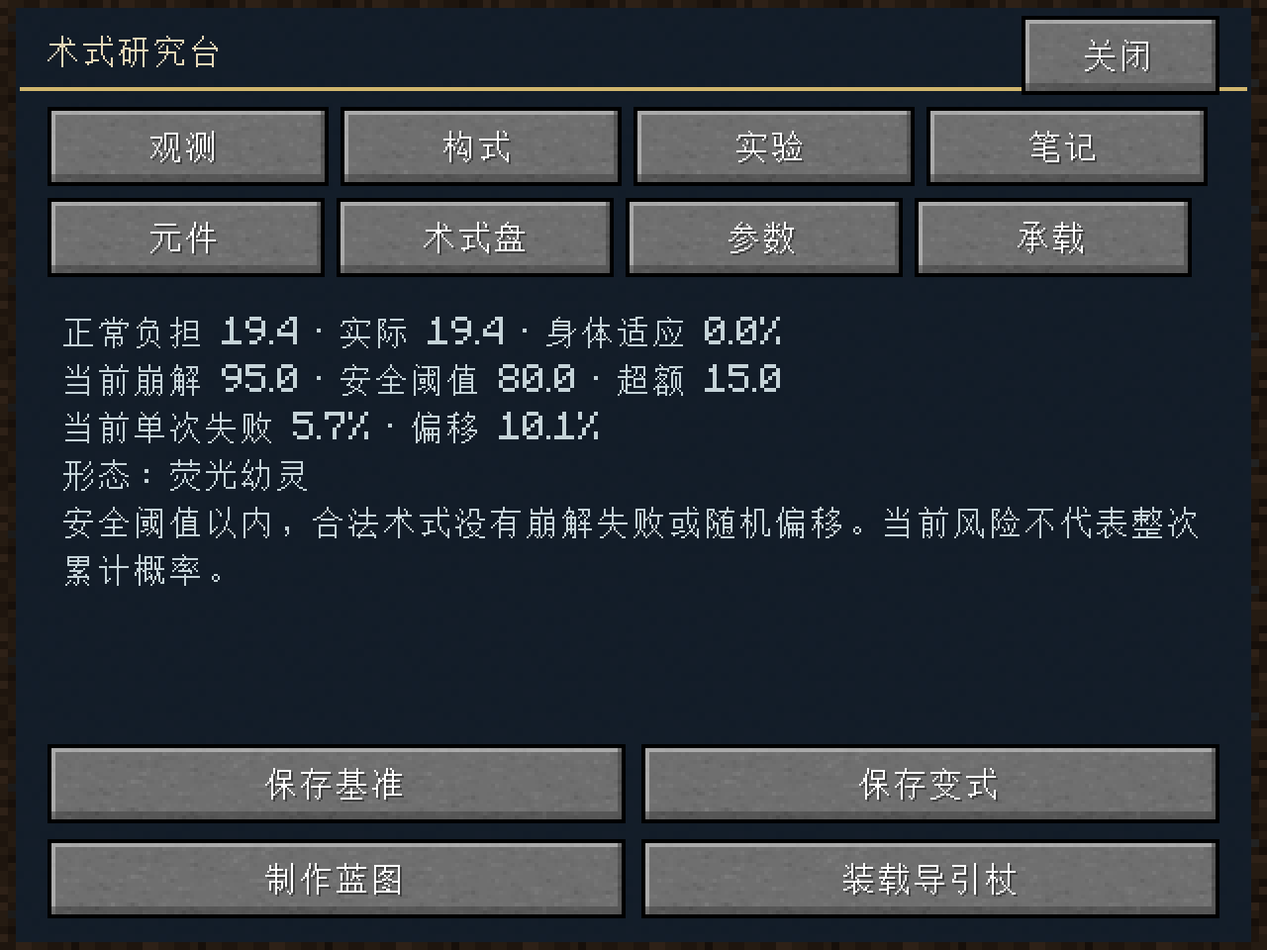
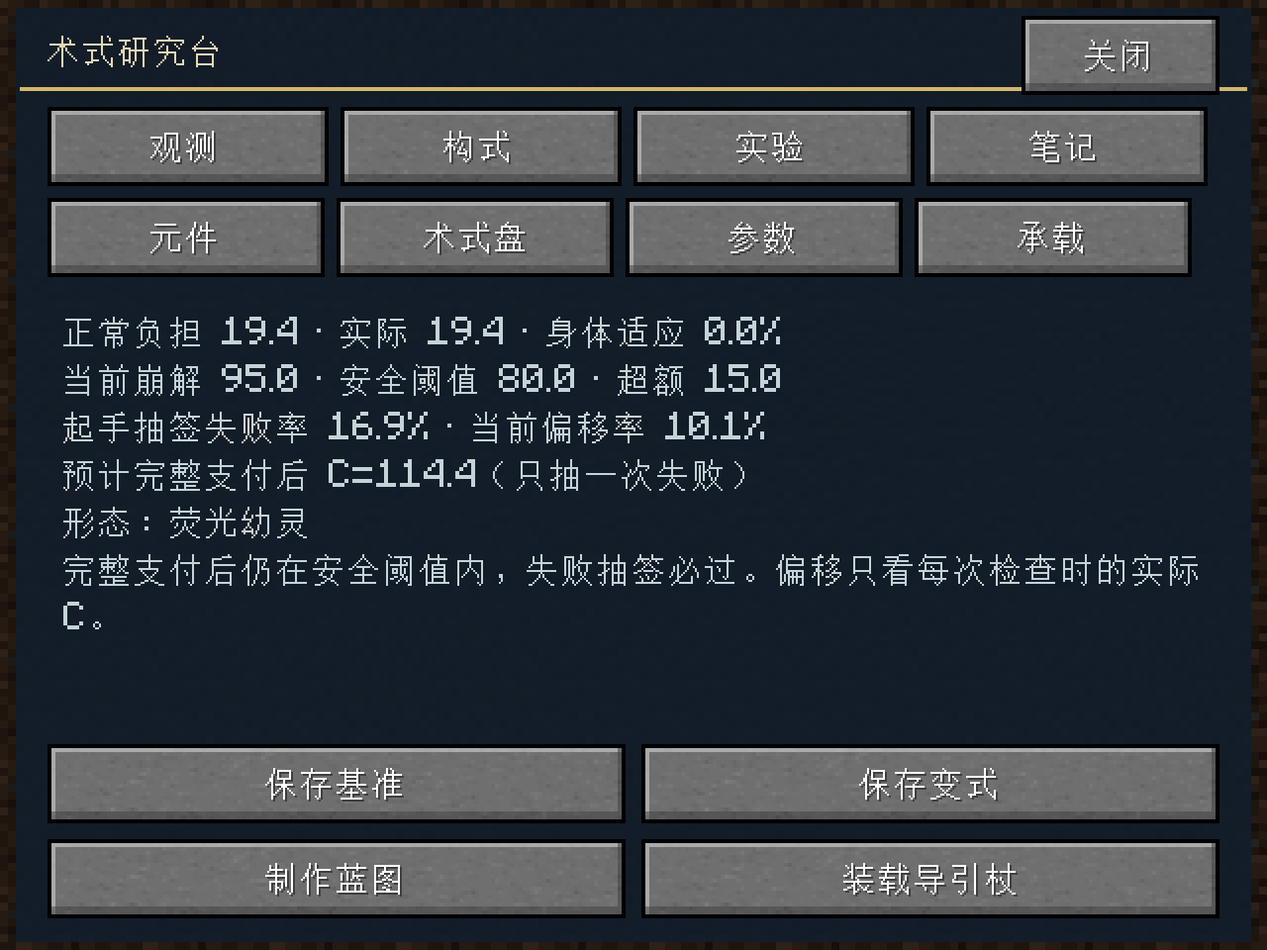
调整施法失败为起手按预计完整负荷单次抽签，抽中后在不可打断界限前随机中断，保留实时偏移、渐进支付与完整冷却，更新HUD、实验记录和设计原型，补充概率分布及实际世界回归，更新neomagic.4测试包

Changed region(s): [[0.0312, 0.4375, 0.9375, 0.625]]

diff --git a/new-spell-system/ui/prototype.js b/new-spell-system/ui/prototype.js
@@ -83,8 +83,8 @@
     $('safety-line').style.left = `${profile.safety / (profile.safety + 150) * 100}%`;
     $('risk-stage').textContent = now.excess === 0 ? '安全范围内' : `超出安全线 ${fmt(now.excess)} 点`;
     $('risk-stage').style.color = now.excess > 0 ? 'var(--red)' : 'var(--cyan)';
-    $('risk-now').textContent = `本次检测 ${pct(now.failure)}`;
-    $('projected').textContent = `完整支付后预计 ${fmt(state.burden + q.actual)}。条件不再变化时，整次预估 ${pct(plan.cumulative)}。`;
+    $('risk-now').textContent = `起手失败抽签 ${pct(plan.cumulative)}`;
+    $('projected').textContent = `完整支付后预计 ${fmt(state.burden + q.actual)}。失败只抽一次，整次概率 ${pct(plan.cumulative)}。`;
     $('load-baseline').disabled = !baseline;
     diagram();
   }
@@ -111,7 +111,7 @@
     if (comparisonBase.carrier !== s.carrier) differences.push('载形');
     const detail = scheme => `${safe(M.forms[scheme.form].name)} · 起始负担 ${fmt(scheme.burden)}<br>${fmt(scheme.intensity, 2)} U · ${fmt(scheme.prep / 20)} 秒 · ${scheme.range} 格`;
     $('comparison').innerHTML = `<div class="comparison-grid"><div><small>基准方案</small><h3>${safe(M.structures[comparisonBase.structure].name)}</h3><p>${detail(comparisonBase)}<br>实际报价 ${fmt(qb.actual)} · 作用预算 ${fmt(qb.budget)}</p></div><div><small>选中的演算记录</small><h3>${safe(M.structures[s.structure].name)} · ${record.status === 'failed' ? '释放失败' : '演算完成'}</h3><p>${detail(s)}<br>已支付 ${fmt(record.paid)} · 演算输出预算 ${fmt(record.outputBudget)}<br>累计偏移 ${fmt(Math.hypot(record.yaw, record.pitch), 2)}°</p></div></div><div class="condition-note ${differences.length ? 'warning' : ''}">${!baseline ? '尚未保存基准；当前仅展示这份记录。' : differences.length ? `比较条件有差异：${differences.join('、')}。先保留疑问，不能只把结果归因于组织方式。` : '形态、起始负担和主要参数一致，可用于比较组织方式；一次抽卡结果仍不构成确定结论。'}</div>`;
-    $('timeline').innerHTML = `<table class="timeline"><thead><tr><th>时点</th><th>已支付</th><th>累计／超额</th><th>本次失败率</th><th>本次偏移率</th><th>观察</th></tr></thead><tbody>${record.checkpoints.map(point => `<tr class="${point.failed ? 'failed' : point.shifted ? 'shifted' : ''}"><td>${fmt(point.tick / 20)} 秒</td><td>${fmt(point.paid)}</td><td>${fmt(point.burden)} / +${fmt(point.excess)}</td><td>${pct(point.failure)}</td><td>${pct(point.offset)}</td><td>${point.failed ? '中断 · 完整CD' : point.shifted ? `偏移累计 ${fmt(Math.hypot(point.yaw, point.pitch), 2)}°` : point.excess === 0 ? '安全通过' : '本次通过'}</td></tr>`).join('')}</tbody></table>`;
+    $('timeline').innerHTML = `<table class="timeline"><thead><tr><th>时点</th><th>已支付</th><th>累计／超额</th><th>起手抽签率</th><th>本次偏移率</th><th>观察</th></tr></thead><tbody>${record.checkpoints.map(point => `<tr class="${point.failed ? 'failed' : point.shifted ? 'shifted' : ''}"><td>${fmt(point.tick / 20)} 秒</td><td>${fmt(point.paid)}</td><td>${fmt(point.burden)} / +${fmt(point.excess)}</td><td>${pct(point.failure)}</td><td>${pct(point.offset)}</td><td>${point.failed ? '中断 · 完整CD' : point.shifted ? `偏移累计 ${fmt(Math.hypot(point.yaw, point.pitch), 2)}°` : point.excess === 0 ? '安全通过' : '本次通过'}</td></tr>`).join('')}</tbody></table>`;
   }
   function renderNotes() {
     const last = records[0];

diff --git a/new-spell-system/ui/model.js b/new-spell-system/ui/model.js
@@ -74,11 +74,12 @@
   }
   function plan(input) {
     const s = normalise(input), q = quote(s), checkpoints = [];
+    const failure = risk(s, s.burden + q.actual).failure;
     for (let t = 0; t <= s.prep; t += 10) {
       const paid = q.actual * (s.prep === 0 ? 1 : t / s.prep);
-      checkpoints.push({ tick: t, paid, burden: s.burden + paid, ...risk(s, s.burden + paid) });
+      checkpoints.push({ tick: t, paid, burden: s.burden + paid, ...risk(s, s.burden + paid), failure });
     }
-    return { checkpoints, cumulative: 1 - checkpoints.reduce((value, p) => value * (1 - p.failure), 1) };
+    return { checkpoints, cumulative: failure, failureBasis: s.burden + q.actual, failureDraws: 1 };
   }
   function rng(seed) {
     let n = seed >>> 0;
@@ -88,20 +89,22 @@
     const s = normalise(input), errors = validate(s);
     if (errors.length) return { invalid: true, errors };
     const q = quote(s), next = rng(seed), checkpoints = [];
+    const probability = risk(s, s.burden + q.actual).failure;
+    const failureAt = next() < probability ? Math.floor(next() * Math.max(1, s.prep)) : -1;
     let paid = 0, yaw = 0, pitch = 0, failed = false, endTick = s.prep;
     for (let tick = 0; tick <= s.prep; tick++) {
       const billed = tick === s.prep ? tick : Math.floor(tick / 2) * 2;
       paid = q.actual * (s.prep === 0 ? 1 : billed / s.prep);
-      if (tick % 10 !== 0) continue;
+      failed = tick === failureAt;
+      if (tick % 10 !== 0 && !failed) continue;
       const r = risk(s, s.burden + paid);
-      failed = r.failure > 0 && next() < r.failure;
-      const shifted = !failed && r.offset > 0 && next() < r.offset;
+      const shifted = !failed && tick % 10 === 0 && r.offset > 0 && next() < r.offset;
       if (shifted) { yaw += (next() * 2 - 1) * r.angle; pitch += (next() * 2 - 1) * r.angle; }
-      checkpoints.push({ tick, paid, burden: s.burden + paid, ...r, failed, shifted, yaw, pitch });
+      checkpoints.push({ tick, paid, burden: s.burden + paid, ...r, failure: probability, failed, shifted, yaw, pitch });
       if (failed) { endTick = tick; break; }
     }
     return { id: String(Date.now()) + '-' + seed, seed, scheme: s, quote: q, checkpoints,
-      status: failed ? 'failed' : 'complete', paid, endBurden: s.burden + paid, endTick,
+      status: failed ? 'failed' : 'complete', paid, endBurden: s.burden + paid, endTick, failureDraws: 1, failureProbability: probability, failureBasis: s.burden + q.actual,
       yaw, pitch, outputBudget: failed ? 0 : q.budget, created: new Date().toLocaleTimeString('zh-CN', { hour12: false }) };
   }
   const api = { cores, carriers, structures, forms, normalise, validate, quote, risk, plan, simulate };

diff --git a/new-spell-system/ui/研究界面原型.html b/new-spell-system/ui/研究界面原型.html
@@ -60,7 +60,7 @@
               <div class="body-values"><span>当前累计 <b id="burden-value">70.0</b></span><span>安全阈值 <b id="safety-value">100</b></span></div>
               <div class="burden-bar"><div id="burden-fill"></div><i id="safety-line"></i></div>
               <input type="range" id="burden" min="0" max="300" step="1" value="70" aria-label="调整演示初始负担">
-              <div class="risk-line"><span id="risk-stage">安全范围内</span><b id="risk-now">本次检测 0%</b></div><p class="muted" id="projected"></p>
+              <div class="risk-line"><span id="risk-stage">安全范围内</span><b id="risk-now">起手失败抽签 0%</b></div><p class="muted" id="projected"></p>
               <button id="recover" class="reset-button">调整演示条件：负担归零</button>
             </div>
           </aside>
@@ -69,7 +69,7 @@
       <section class="page" id="page-experiment" hidden>
         <div class="section-title"><div><small>EXPERIMENT</small><h2>对照条件，再解释结果</h2></div><button class="subtle-button" data-go="craft">← 返回构式</button></div>
         <div class="experiment-layout"><aside class="panel history-panel"><div class="panel-title">演算记录 <span id="record-count">0</span></div><div id="history"></div><p class="muted">这里保存界面原型的规则演算，不是游戏实体测量。</p></aside>
-          <div class="experiment-main"><div id="comparison" class="panel comparison"></div><div class="panel timeline-panel"><div class="panel-title">施法检测时间线 <small>从 0 tick 起，每 10 tick</small></div><div id="timeline"></div></div><div class="sample-caution">观察次数与未来概率分别解释。一次随机结果不能单独证明因果。</div></div></div>
+          <div class="experiment-main"><div id="comparison" class="panel comparison"></div><div class="panel timeline-panel"><div class="panel-title">施法检测时间线 <small>失败只抽一次；偏移从 0 tick 起每 10 tick</small></div><div id="timeline"></div></div><div class="sample-caution">观察次数与未来概率分别解释。一次随机结果不能单独证明因果。</div></div></div>
       </section>
       <section class="page" id="page-notes" hidden>
         <div class="section-title"><div><small>RESEARCH NOTES</small><h2>将观察、假说和结论分开保存</h2></div><span class="tag">笔记不增加身体适应</span></div>

diff --git a/new-spell-system/ui/model-check.js b/new-spell-system/ui/model-check.js
@@ -25,8 +25,11 @@ assert.equal(immediate.status, 'failed');
 assert.equal(immediate.paid, immediate.quote.actual);
 const initialFailure = M.simulate({ ...base, burden: 500 }, 1);
 assert.equal(initialFailure.status, 'failed');
-assert.equal(initialFailure.paid, 0);
-assert.equal(initialFailure.endTick, 0);
+assert.ok(initialFailure.endTick >= 0 && initialFailure.endTick < base.prep);
+assert.ok(Math.abs(initialFailure.paid - initialFailure.quote.actual * (Math.floor(initialFailure.endTick / 2) * 2) / base.prep) < 1e-8);
+assert.equal(initialFailure.failureDraws, 1);
+assert.equal(initialFailure.checkpoints.at(-1).failed, true);
+assert.equal(M.plan(base).cumulative, M.risk(base, base.burden + q.actual).failure);
 const safe = M.simulate({ ...base, burden: 0 }, 1);
 assert.equal(safe.status, 'complete');
 assert.equal(safe.paid, safe.quote.actual);
@@ -45,5 +48,11 @@ for (let seed = 1; seed < 1000; seed++) {
 }
 assert.ok(partialFailure);
 assert.ok(partialFailure.paid > 0 && partialFailure.paid < partialFailure.quote.actual);
+for (let seed = 1; seed <= 4000; seed++) {
+  const attempt = M.simulate({ ...base, burden: 500 }, seed);
+  assert.equal(attempt.failureDraws, 1);
+  assert.ok(attempt.endTick < base.prep);
+  assert.ok(attempt.checkpoints.every(point => point.failed || point.tick % 10 === 0));
+}
 console.log('Design model checks passed: budget conservation, typed structures, live form risks, timeline boundaries, partial payment, adaptation and safe-area guarantees.');
 console.log('This verifies the design calculator only; Minecraft gameplay is not implemented by this prototype.');

diff --git a/new-spell-system/src/test/java/net/ssca/neomagic/NeoModelTest.java b/new-spell-system/src/test/java/net/ssca/neomagic/NeoModelTest.java
@@ -9,6 +9,12 @@ public final class NeoModelTest {
     private static void require(boolean test,String message){checks++;if(!test)throw new AssertionError(message);}
     private static void near(double actual,double expected,String message){require(Math.abs(actual-expected)<1e-8,message+": "+actual+" != "+expected);}
     private static Blueprint b(List<Control> controls,int ticks){return new Blueprint("",Core.THERMAL,Carrier.PROJECTILE,controls,Core.FROST,1,ticks,32);}
+    private static final class Draw extends Random {
+        final double value;final int time;int draws,times;
+        Draw(double value,int time){this.value=value;this.time=time;}
+        @Override public double nextDouble(){draws++;return value;}
+        @Override public int nextInt(int bound){times++;return Math.floorMod(time,bound);}
+    }
     public static void main(String[] args) {
         var safe=new Profile(100000,1,1,1,1,false);var neutral=new Profile(80,1,1,1,1,false);
         for(int prep=0;prep<=80;prep++) {
@@ -23,18 +29,50 @@ public final class NeoModelTest {
         for(int tick=0;tick<=40;tick++)current+=s.advance(tick,current,new Profile(80,.000001,1,1,1,false),new Random(7));
         double[] expected={70,76.25,82.5,88.75,95};
         for(int i=0;i<5;i++)near(s.checkpoints.get(i).burden(),expected[i],"Live burden at checkpoint");
-        require(s.checkpoints.get(2).risk().failure()!=s.checkpoints.get(3).risk().failure(),"Continuous risk inside same descriptive zone");
+        for(var point:s.checkpoints)near(point.risk().failure(),risk(b,95,25,new Profile(80,.000001,1,1,1,false)).failure(),"One locked probability uses initial C plus actual Q");
         Risk low=risk(b,90,25,neutral), high=risk(b,90,45,neutral);
         require(high.failure()>low.failure()&&high.offset()>low.offset()&&high.angle()>low.angle(),"Actual spell cost affects all risks");
         require(risk(b,90,25,new Profile(80,.8,.9,1,1,false)).failure()!=low.failure(),"Same excess different form roll modifier");
         require(risk(b,10000,25,neutral).failure()==1,"Unbounded burden can reach 100% failure");
         Session failure=new Session(b,q);double paid=0;
-        for(int tick=0;tick<=10;tick++)paid+=failure.advance(tick,10000+paid,neutral,new Random(1));
+        for(int tick=0;tick<=10;tick++)paid+=failure.advance(tick,10000+paid,neutral,new Draw(.5,0));
         require(failure.failed&&!failure.complete,"Failure interrupts");near(failure.paid,0,"0-tick non-instant failure does not precharge");
-        Session partial=new Session(b,q);double c=70;
-        for(int tick=0;tick<=20;tick++)c+=partial.advance(tick,c,tick<20?safe:new Profile(1,100,1,1,1,false),new Random(1));
-        require(partial.failed,"Mid-cast failure");near(partial.paid,12.5,"Retains partial payment only");
+        Session partial=new Session(b,q);double c=70;var draw=new Draw(.5,17);
+        for(int tick=0;tick<=20;tick++)c+=partial.advance(tick,c,tick==0?new Profile(1,100,0,1,1,false):safe,draw);
+        require(partial.failed,"Previously drawn failure fires even after safety improves");near(partial.paid,10,"Odd-tick failure retains only the last two-tick payment");
+        require(partial.checkpoints.get(partial.checkpoints.size()-1).tick()==17,"Failure may fire off the ten-tick drift grid");
+        require(draw.draws==1&&draw.times==1&&partial.failureDraws==1,"Failure and its time are sampled exactly once");
+        Session passed=new Session(b,q);var passingDraw=new Draw(.5,0);double passingC=0;
+        for(int tick=0;tick<=40;tick++)passingC+=passed.advance(tick,tick==0?0:10000,new Profile(tick==0?1000:1,100,0,1,1,false),passingDraw);
+        require(passed.complete&&!passed.failed&&passingDraw.draws==1&&passingDraw.times==0,"Later C spikes do not reroll a successful initial draw");
+        Session projected=new Session(b,q);var projectedDraw=new Draw(0,19);
+        projected.advance(0,70,neutral,projectedDraw);require(projected.failureProbability>0&&!projected.failed,"Projected unsafe payment can schedule failure while current C is safe");
+        Session locked=new Session(b,q,700,200);var finalWindow=new Draw(.5,199);double longC=10000;
+        for(int tick=0;tick<=200;tick++)longC+=locked.advance(tick,longC,new Profile(1,100,0,1,1,false),finalWindow,false);
+        require(locked.failed&&locked.checkpoints.get(locked.checkpoints.size()-1).tick()==199,"Failure fires strictly before the lock boundary");
+        require(finalWindow.draws==1&&finalWindow.times==1,"A long preparation still has one failure draw");
         Session instant=new Session(b(List.of(),0),q);near(instant.advance(0,0,safe,new Random(1)),25,"Instant prepays before checking");
+        var instantFail=new Session(b(List.of(),0),q);instantFail.advance(0,10000,neutral,new Draw(.5,19));
+        require(instantFail.failed&&instantFail.paid==25&&instantFail.failureDraws==1,"Instant failure pays and fires at zero");
+        var rng=new Random(20261027);int[] bins=new int[20];
+        for(int run=0;run<4000;run++) {
+            var attempt=new Session(b,q,700,200);double value=10000;
+            for(int tick=0;tick<=700&&!attempt.failed;tick++)value+=attempt.advance(tick,value,new Profile(1,100,0,1,1,false),rng,false);
+            require(attempt.failed,"Guaranteed failure terminates within preparation");
+            int when=attempt.checkpoints.get(attempt.checkpoints.size()-1).tick();
+            require(when>=0&&when<200&&attempt.failureDraws==1,"Sampled failures stay inside the pre-lock window");bins[when/10]++;
+        }
+        require(Arrays.stream(bins).allMatch(n->n>140&&n<260),"Failure times cover the entire window without ten-tick quantization");
+        for(int duration:new int[]{20,80}) {
+            int failures=0;var spell=b(List.of(),duration);var fixed=new Quote(20,20,.5,plan(spell));
+            for(int run=0;run<10000;run++) {
+                var attempt=new Session(spell,fixed);double value=90;
+                for(int tick=0;tick<=duration&&!attempt.failed;tick++)value+=attempt.advance(tick,value,new Profile(100,10.0/3,0,1,1,false),rng);
+                if(attempt.failed)failures++;
+                require(attempt.failureDraws==1,"Failure draw count is independent of preparation length");
+            }
+            require(Math.abs(failures/10000.0-.1)<.015,"Whole-cast chance stays near 10 percent for both short and long preparation");
+        }
         for(var controls:List.of(List.<Control>of(),List.of(Control.SPLIT),List.of(Control.MERGE))) {
             var spell=b(controls,40);Quote novice=quote(spell,0,coefficients(Core.THERMAL)),master=quote(spell,1,coefficients(Core.THERMAL));
             require(master.actual()/novice.actual()>=.35-1e-8&&master.actual()/novice.actual()<=.5+1e-8,"35–50 percent remaining cost");

diff --git a/new-spell-system/src/test/java/net/ssca/neomagic/NeoBookWorldProbe.java b/new-spell-system/src/test/java/net/ssca/neomagic/NeoBookWorldProbe.java
@@ -70,8 +70,12 @@ public final class NeoBookWorldProbe {
                 var wand=new ItemStack(NeoMagic.WAND);wand.getOrCreateNbt().putString("NeoBlueprint",NeoState.JSON.toJson(NeoModel.Blueprint.starter()));p.setStackInHand(Hand.OFF_HAND,wand);
                 NeoRuntime.start(p,Hand.OFF_HAND);check(!NeoRuntime.ACTIVE.containsKey(p.getUuid()),"Book and loaded wand cannot prepare in parallel");
                 var bad=player(t);var badBook=book(bad);SpellbookData.setScroll(badBook,0,ScrollData.create("lunar_mend",1));
+                NeoRuntime.data(bad).burden=10000;
                 SpellCastManager.cast(bad,0,321);var interrupted=NeoLegacyCasting.active(bad);
-                check(interrupted!=null,"Second player starts independently");NeoRuntime.data(bad).burden=10000;
+                var badRecord=NeoRuntime.data(bad).records.get(0);
+                var changing=player(t);var changingBook=book(changing);SpellbookData.setScroll(changingBook,0,ScrollData.create("lunar_mend",1));
+                SpellCastManager.cast(changing,0,322);var changingCast=NeoLegacyCasting.active(changing);
+                check(changingCast!=null&&changingCast.session.failureProbability==0,"Projected safe cast passes its one initial failure draw");NeoRuntime.data(changing).burden=10000;
                 var solo=player(t);solo.setHealth(5);var soloScroll=ScrollData.create("lunar_mend",1);solo.setStackInHand(Hand.MAIN_HAND,soloScroll);
                 int uses=ScrollData.getUses(soloScroll);soloScroll.use(t.getWorld(),solo,Hand.MAIN_HAND);var soloCast=NeoLegacyCasting.active(solo);
                 check(soloCast!=null&&soloCast.session.quote.actual()>0,"Standalone scroll pays collapse");
@@ -86,15 +90,33 @@ public final class NeoBookWorldProbe {
                 check(failure.paid==15&&failure.checks.size()==1&&failure.checks.get(0).tick()==0,"Instant failure pays full at zero exactly once");
                 check(effect[0]==0&&cd[0]==100&&!SpellChannelManager.isCasting(instant),"Guaranteed failure interrupts effect with full cooldown");
                 check(!NeoRuntime.data(instant).progress.containsKey("spell:"+real.getId()),"Failure grants no adaptation");
-                t.waitAndRun(3,()->{check(cast.session.paid>0&&cast.session.paid<cast.session.quote.actual(),"Preparation adds C progressively");check(SpellbookData.getMana(book)==0,"Payment never touches old mana");});
-                t.waitAndRun(14,()->{
-                    check(!SpellChannelManager.isCasting(bad)&&interrupted.session.failed,"Rising LIVE C fails next checkpoint");
-                    check(interrupted.session.checkpoints.stream().map(NeoModel.Checkpoint::tick).toList().equals(List.of(0,10)),"Checks run at 0 and 10 exactly once");
-                    check(interrupted.session.paid>0&&interrupted.session.paid<interrupted.session.quote.actual(),"Failure retains paid part without charging remainder");
-                    long remaining=SharedSpellCooldowns.getCooldownEndOf(bad,SpellRegistry.get("lunar_mend"))-bad.getWorld().getTime();
-                    check(remaining>220,"Live failure receives full 240 tick cooldown");
+                t.waitAndRun(3,()->{
+                    check(cast.session.paid>0&&cast.session.paid<cast.session.quote.actual(),"Preparation adds C progressively");check(SpellbookData.getMana(book)==0,"Payment never touches old mana");
+                    var hud=NeoNetwork.hudState(changing);
+                    check(hud.getDouble("Failure")==0&&hud.getDouble("Offset")>0,"HUD keeps initial whole-cast failure chance while deviation follows live C");
+                    check(hud.getDouble("FailureBasis")==changingCast.session.quote.actual(),"HUD retains the initial projected payment basis");
+                });
+                var early=player(t);NeoRuntime.data(early).burden=10000;int[] lockedEffect={0},lockedCd={0};long began=early.getWorld().getTime();
+                var lockingSpell=new Spell(real.getId(),SpellRarity.WHITE) {
+                    @Override public SpellCastingRules.Profile getCastingProfile(ServerPlayerEntity c,int l,boolean s){return new SpellCastingRules.Profile(30,1,false);}
+                    @Override public int getLockInTick(){return 5;}
+                    @Override public boolean isLockedIn(ServerPlayerEntity c){return c.getWorld().getTime()-began>=5;}
+                    @Override public void cast(ServerPlayerEntity c,float power,boolean s){}
+                };
+                check(SpellChannelManager.start(early,lockingSpell,ScrollData.create("fire_bolt"),1,false,323,15,100,()->true,v->lockedEffect[0]++,c->lockedCd[0]=c,()->{}),"Pre-lock failure fixture starts");
+                var lockRecord=NeoRuntime.data(early).records.get(0);
+                t.waitAndRun(8,()->{
+                    check(!SpellChannelManager.isCasting(early)&&lockRecord.result.equals("failed"),"Failure fires before the spell becomes locked");
+                    check(lockRecord.checks.get(lockRecord.checks.size()-1).tick()<5&&lockedEffect[0]==0&&lockedCd[0]==100,"No effect or lock bypass; full cooldown settles once");
+                    check(!NeoState.JSON.toJson(NeoRuntime.data(early)).contains("failureAt"),"Research snapshots never reveal the scheduled failure tick");
                 });
                 t.waitAndRun(34,()->{
+                    check(!SpellChannelManager.isCasting(bad)&&badRecord.result.equals("failed")&&badRecord.failureDraws==1,"One initial failure result eventually interrupts preparation");
+                    check(badRecord.checks.get(badRecord.checks.size()-1).tick()<30,"Normal spell fails strictly before completion");
+                    check(badRecord.paid>=0&&badRecord.paid<badRecord.actual,"Failure retains paid C without charging remainder");
+                    long remaining=SharedSpellCooldowns.getCooldownEndOf(bad,SpellRegistry.get("lunar_mend"))-bad.getWorld().getTime();
+                    check(remaining>200,"Scheduled failure receives full quoted cooldown");
+                    check(!changingCast.session.failed&&changingCast.session.failureDraws==1,"Rising live C never rerolls the initial failure result");
                     check(!SpellChannelManager.isCasting(p)&&p.getHealth()>5,"Existing book healing effect releases");
                     check(Math.abs(NeoRuntime.data(p).burden-cast.session.quote.actual())<1e-7,"Book payment equals final quote");
                     check(cast.session.checkpoints.stream().map(NeoModel.Checkpoint::tick).toList().equals(List.of(0,10,20,30)),"30 tick cast includes start and endpoint");

diff --git a/new-spell-system/src/main/java/net/ssca/neomagic/NeoModel.java b/new-spell-system/src/main/java/net/ssca/neomagic/NeoModel.java
@@ -122,12 +122,21 @@ public final class NeoModel {
         public final Quote quote;
         public final List<Checkpoint> checkpoints = new ArrayList<>();
         public double paid, yaw, pitch, attenuation = 1, survival = 1;
+        public double failureProbability, failureBasis;
+        public int failureDraws;
+        /** Exclusive end of the window in which a scheduled failure may fire. */
+        public final int failureBoundary;
         public boolean failed, complete, reversed, wrongTarget;
         private int previous = -1;
+        private int failureAt = -1;
         private final int duration;
         public Session(Blueprint b, Quote q) { this(b,q,b.prep()); }
         /** Existing spells may have longer preparation than the research editor's 80 tick range. */
-        public Session(Blueprint b, Quote q, int duration) { blueprint = b; quote = q; this.duration=Math.max(0,duration); }
+        public Session(Blueprint b, Quote q, int duration) { this(b,q,duration,duration); }
+        public Session(Blueprint b, Quote q, int duration, int lockInTick) {
+            blueprint=b;quote=q;this.duration=Math.max(0,duration);
+            failureBoundary=lockInTick<0?this.duration:Math.min(this.duration,lockInTick);
+        }
         /** Caller adds returned delta to its sole C before consuming this checkpoint. */
         public double advance(int age, double current, Profile form, RandomGenerator rng) {
             return advance(age,current,form,rng,true);
@@ -136,15 +145,22 @@ public final class NeoModel {
             if (failed || complete || age <= previous) return 0;
             if (age != previous + 1) throw new IllegalArgumentException("Session must advance one tick at a time");
             previous = age;
+            if(failureDraws==0) {
+                // One whole-cast draw, using the initial C plus this cast's actual locked quote.
+                // Keep the result and scheduled time on the server; later C changes never redraw it.
+                failureBasis=current+quote.actual;
+                failureProbability=risk(blueprint,failureBasis,quote.actual,form).failure;
+                failureDraws=1;survival=1-failureProbability;
+                if(rng.nextDouble()<failureProbability)failureAt=rng.nextInt(Math.max(1,failureBoundary));
+            }
             int billed = age >= duration ? duration : age / 2 * 2;
             double due = duration == 0 ? quote.actual : quote.actual*billed/duration;
             double delta = Math.max(0,due-paid); paid += delta;
-            if (age % 10 == 0) {
-                Risk r = risk(blueprint,current+delta,quote.actual,form);
-                survival*=1-r.failure;
-                boolean failDraw = r.failure > 0 && rng.nextDouble() < r.failure;
-                boolean shiftDraw = r.offset > 0 && rng.nextDouble() < r.offset;
-                failed = failDraw;
+            failed=age==failureAt;
+            if (age % 10 == 0 || failed) {
+                Risk live=risk(blueprint,current+delta,quote.actual,form);
+                Risk r=new Risk(live.excess,failureProbability,live.offset,live.angle);
+                boolean shiftDraw=!failed&&age%10==0&&r.offset>0&&rng.nextDouble()<r.offset;
                 if (!failed && shiftDraw) {
                     yaw += (rng.nextDouble()*2-1)*r.angle;
                     pitch += (rng.nextDouble()*2-1)*r.angle;

diff --git a/new-spell-system/tools/generate_resources.py b/new-spell-system/tools/generate_resources.py
@@ -91,7 +91,14 @@ results["missed"]=("效果结束，未命中测量目标","Effect finished; no m
 results["effect_lost"]=("效果被外部生命周期清理","Effect removed by external lifecycle")
 zh["absorption"]="实际消耗吸收量：%s";en["absorption"]="Absorption actually consumed: %s"
 zh["shared_evidence"]="共享证据 %s 条（不计入个人实测或适应）";en["shared_evidence"]="%s shared evidence records (no personal adaptation or observations)"
-zh["hud_deviation"]="已历风险 %s · 偏移 %s°/%s°";en["hud_deviation"]="Past risk %s / Drift %s/%s"
+zh.update({"hud_risk":"代价 %s · 整次失败 %s · 当前偏移 %s", "hud_deviation":"起手失败率 %s · 偏角 %s°/%s°",
+    "current_risk":"起手抽签失败率 %s · 当前偏移率 %s", "forecast":"预计完整支付后 C=%s（只抽一次失败）",
+    "safe_guarantee":"完整支付后仍在安全阈值内，失败抽签必过。偏移只看每次检查时的实际 C。",
+    "failure_draw":"一次失败抽签：预计 C=%s，概率 %s，界限 tick %s（瞬发在0 tick判定）"})
+en.update({"hud_risk":"Cost %s / Cast fail %s / Live drift %s", "hud_deviation":"Initial fail chance %s / Drift %s/%s",
+    "current_risk":"One cast-failure draw %s / Live drift %s", "forecast":"Projected final C=%s (one failure draw)",
+    "safe_guarantee":"Projected payment within safety guarantees the failure draw passes. Drift uses live C at each check.",
+    "failure_draw":"One failure draw: projected C=%s, chance %s, boundary tick %s (instant: tick 0)"})
 zh["evidence_summary"]="%s：起始%s / 负担%s / 到达%s";en["evidence_summary"]="%s: initial %s / cost %s / arrived %s"
 errors={"name":("名称不能超过32字","Name exceeds 32 characters"),"scale":("作用规模必须在0.5至4之间","Scale must be 0.5 to 4"),"prep":("准备必须在0至80 tick之间","Preparation must be 0 to 80 ticks"),"range":("路径超限；超过32格需要跨越控制","Path exceeds capacity; bridge required beyond 32 blocks"),"carrier":("作用核不支持此载形","Core does not support this carrier"),"capacity":("最多6个控制节点","At most 6 control nodes"),"repeat":("储存、跨越、转化各最多1次","Store, bridge and convert are each limited to one"),"constraints":("约束最多2层","At most 2 constraint layers"),"conversion":("没有此作用核的转换适配","No conversion adapter for this core"),"branches":("终端超过6路","More than 6 terminals"),"self_split":("自体没有多路目标通路","Self carrier has no multiple target paths"),"summon_merge":("构成尚无集中对象适配","No concentrated summon adapter")}
 for key,(cn,eng) in errors.items():zh["error."+key]=cn;en["error."+key]=eng

diff --git a/new-spell-system/src/main/java/net/ssca/neomagic/NeoState.java b/new-spell-system/src/main/java/net/ssca/neomagic/NeoState.java
@@ -16,6 +16,8 @@ public final class NeoState extends PersistentState {
         public String id = UUID.randomUUID().toString(), version = NeoRules.version(), result = "preparing";
         public String spell = "";
         public int preparation, omittedChecks;
+        public double failureBasis, failureProbability;
+        public int failureDraws, failureBoundary;
         public Blueprint blueprint;
         public Profile profile;
         public String form, dimension, target = "none";
@@ -94,6 +96,7 @@ public final class NeoState extends PersistentState {
         if(d.cooldowns.entrySet().stream().anyMatch(e->e.getKey()==null||e.getValue()==null||e.getValue()<0))throw new IllegalStateException("Invalid cooldown ledger");
         for(var record:d.records)if(record==null||record.blueprint==null||!errors(record.blueprint).isEmpty()||record.id==null||record.result==null
                 ||record.id.length()<8||record.form==null||record.version==null||record.target==null||record.spell==null||record.spell.length()>256||record.preparation<0||record.omittedChecks<0
+                ||!Double.isFinite(record.failureBasis+record.failureProbability)||record.failureBasis<0||record.failureProbability<0||record.failureProbability>1||record.failureDraws<0||record.failureDraws>1||record.failureBoundary<0
                 ||!Double.isFinite(record.initial+record.actual+record.normal+record.paid+record.arrived+record.damage+record.healing+record.absorbed+record.yaw+record.pitch)
                 ||record.checks==null||record.checks.size()>512||record.checks.stream().anyMatch(c->c==null||c.risk()==null)
                 ||record.measurements==null||record.measurements.size()>32)

diff --git a/new-spell-system/src/test/java/net/ssca/neomagic/NeoStressModelTest.java b/new-spell-system/src/test/java/net/ssca/neomagic/NeoStressModelTest.java
@@ -35,9 +35,13 @@ public final class NeoStressModelTest {
             int oldChecks=s.checkpoints.size();double oldPaid=s.paid;
             s.advance(b.prep()+1,c,f,random);check(oldChecks==s.checkpoints.size()&&oldPaid==s.paid,"No post-terminal charges or draws");
             for(Checkpoint cp:s.checkpoints) {
-                check(cp.tick()%10==0,"Fixed 10-tick detection schedule");
-                if(cp.burden()<=f.safety())check(cp.risk().failure()==0&&cp.risk().offset()==0&&!cp.failed()&&!cp.shifted(),"Safe region is deterministic");
+                check(cp.tick()%10==0||cp.failed(),"Drift stays on the ten-tick grid; scheduled failure may fire at any tick");
+                if(cp.burden()<=f.safety())check(cp.risk().offset()==0&&!cp.shifted(),"Live safe region guarantees no deviation");
+                check(cp.risk().failure()==s.failureProbability,"Every checkpoint retains the one initial failure probability");
             }
+            check(s.failureDraws==1,"One failure draw per cast");
+            if(s.failureBasis<=f.safety())check(!s.failed&&s.failureProbability==0,"Projected safe payment guarantees no failure");
+            if(s.failed)check(s.checkpoints.get(s.checkpoints.size()-1).tick()<Math.max(1,b.prep()),"Failure occurs before release boundary");
         }
         double seconds=(System.nanoTime()-start)/1e9;
         String json=String.format(Locale.ROOT,"{\"seed\":20261027,\"sessions\":%d,\"valid_blueprints\":%d,\"simulated_ticks\":%d,\"relief_events\":%d,\"completed\":%d,\"failed\":%d,\"invariant_checks\":%d,\"seconds\":%.3f}%n",cases,blueprints.size(),ticks,reliefs,finished,failed,checks,seconds);

diff --git a/new-spell-system/src/main/java/net/ssca/neomagic/NeoNetwork.java b/new-spell-system/src/main/java/net/ssca/neomagic/NeoNetwork.java
@@ -106,13 +106,15 @@ public final class NeoNetwork {
             }
         }
         Risk r=risk(b,d.burden,q.actual(),NeoRuntime.profile(p));
-        n.putDouble("Q",q.actual());n.putDouble("Failure",r.failure());n.putDouble("Offset",r.offset());
+        var session=legacy!=null?legacy.session:a==null?null:a.session;
+        double failure=session==null?risk(b,d.burden+q.actual(),q.actual(),NeoRuntime.profile(p)).failure():session.failureProbability;
+        n.putDouble("Q",q.actual());n.putDouble("Failure",failure);n.putDouble("Offset",r.offset());
+        n.putDouble("FailureBasis",session==null?d.burden+q.actual():session.failureBasis);
         n.putInt("CD",d.cooldowns.getOrDefault(b.identity(),0));n.putBoolean("Stored",NeoEffects.hasStored(p.getUuid()));
         if(!legacyName.isEmpty()) {
             var spell=net.jackcooper.shapeShifterCurseAddon.spell.SpellRegistry.get(new Identifier(legacyName));
             if(spell!=null)n.putInt("CD",(int)Math.max(0,net.jackcooper.shapeShifterCurseAddon.spell.SharedSpellCooldowns.getCooldownEndOf(p,spell)-p.getWorld().getTime()));
         }
-        var session=legacy!=null?legacy.session:a==null?null:a.session;
         n.putInt("Age",legacy!=null?legacy.age:a==null?-1:a.age);n.putInt("Prep",prep);n.putDouble("Paid",session==null?0:session.paid);
         n.putDouble("Yaw",session==null?0:session.yaw);n.putDouble("Pitch",session==null?0:session.pitch);
         n.putDouble("Cumulative",session==null?0:1-session.survival);n.putString("Spell",legacyName);

diff --git a/new-spell-system/src/main/java/net/ssca/neomagic/client/NeoScreen.java b/new-spell-system/src/main/java/net/ssca/neomagic/client/NeoScreen.java
@@ -128,7 +128,8 @@ public final class NeoScreen extends Screen {
                 Risk risk=risk(edit,data.burden,q.actual(),profile);
                 line("quote",f(q.normal()),f(q.actual()),pc(bodyMastery(edit)));
                 line("body",f(data.burden),f(profile.safety()),f(risk.excess()));
-                line("current_risk",pc(risk.failure()),pc(risk.offset()));line("form",formName(data.form));
+                double probability=risk(edit,data.burden+q.actual(),q.actual(),profile).failure();
+                line("current_risk",pc(probability),pc(risk.offset()));line("forecast",f(data.burden+q.actual()));line("form",formName(data.form));
                 line("safe_guarantee");if(profile.reference())line("reference_profile");
             }
             if(!table)line("need_table");
@@ -159,6 +160,7 @@ public final class NeoScreen extends Screen {
     private void experimentLines(NeoState.Experiment e) {
         if(!e.spell.isEmpty())line("named_spell",e.spell,e.preparation);
         if(e.omittedChecks>0)line("omitted_checks",e.omittedChecks);
+        if(e.failureDraws==1)line("failure_draw",f(e.failureBasis),pc(e.failureProbability),e.failureBoundary);
         blueprintLines(e.blueprint);line("record_id",e.id.substring(0,8),e.version);line("result",t("result."+e.result).getString());
         line("record_cost",f(e.initial),f(e.actual),f(e.paid));
         if(e.spell.isEmpty()){line("measured",f(e.arrived),f(e.damage),f(e.healing),e.hits,e.summons);line("absorption",f(e.absorbed));}
